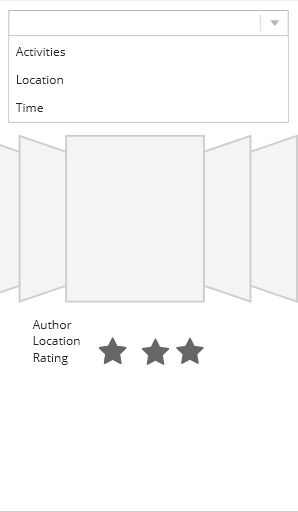
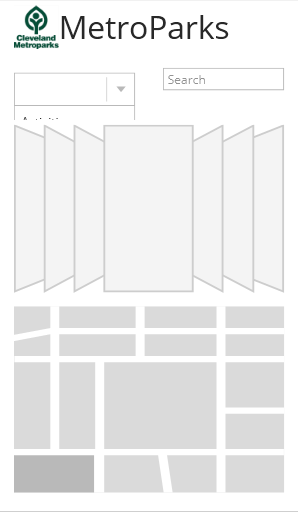
updated wireframe

diff --git a/Wireframe/index.html b/Wireframe/index.html
@@ -1,0 +1,79 @@
+<!DOCTYPE html>
+<!--[if lt IE 9]><html class="not-supported-browser"><![endif]-->
+<!--[if IE 9]><html class="ie9"> <![endif]-->
+<!--[if !IE]><!--><html><!--<![endif]-->
+    <head>
+        <base href='/' />
+        <script type='text/javascript'>
+            var loc = window.location.toString().replace(window.location.hash, '');
+            document.getElementsByTagName('base')[0].href = loc.substring(0, loc.lastIndexOf('/') + 1) + 'player/';
+        </script>
+        <meta http-equiv='x-ua-compatible' content='IE=edge' />
+
+        <meta charset="UTF-8"/>
+        <meta name="apple-mobile-web-app-capable" content="yes"/>
+        <meta name="apple-mobile-web-app-status-bar-style" content="black"/>
+        <meta name="viewport" content="user-scalable=no, initial-scale=1, maximum-scale=1, width=device-width, minimal-ui"/>
+        <meta name="viewport" content="user-scalable=no, initial-scale=1, maximum-scale=1, minimal-ui" media="(device-height: 568px)"/>
+        <meta name="google" content="notranslate" />
+        <link rel="apple-touch-icon-precomposed" href="css/images/apple-touch-indigo-icon.jpg"/>
+        <link rel="stylesheet" type="text/css" href="css/player.css" />
+        <script  type="text/javascript" src="lib/require.js"></script>
+    <script data-uri="../project.share" type="application/xml"><?Infragistics.Models format="xaml" version="2"?><SharedProject xmlns="http://prototypes.infragistics.com/shares/" Name="MetroParks" StartScreen="/Main_view.screen" Version="Dragon.Release_20180313.2 - 10.2.0.98" MajorVersion="10"><SharedProject.Options><ShareOptions ShowAnnotations="True" HighlightInteractions="True" Comments="Open" /></SharedProject.Options><SharedProject.Toc><Toc><Toc.Root><TocEntry Label="MetroParks" Type="project"><TocEntry.Target><TocEntryTarget Project="project.share" /></TocEntry.Target><TocEntry.Items><TocEntry Label="Detailed_view" Type="screen"><TocEntry.Target><TocEntryTarget Screen="/Detailed_view.screen" /></TocEntry.Target><TocEntry.Items><TocEntry Label="Start" Type="state"><TocEntry.Target><TocEntryTarget State="c1e1be22-d7db-a3a2-bd8b-ccaed67cc4da" /></TocEntry.Target></TocEntry></TocEntry.Items></TocEntry><TocEntry Label="Main_view" Type="screen"><TocEntry.Target><TocEntryTarget Screen="/Main_view.screen" /></TocEntry.Target><TocEntry.Items><TocEntry Label="Start" Type="state"><TocEntry.Target><TocEntryTarget State="83a5cef4-00ef-2dc4-ad4c-672c52f77148" /></TocEntry.Target></TocEntry></TocEntry.Items></TocEntry><TocEntry Label="list_view" Type="screen"><TocEntry.Target><TocEntryTarget Screen="/list_view.screen" /></TocEntry.Target><TocEntry.Items><TocEntry Label="Start" Type="state"><TocEntry.Target><TocEntryTarget State="c57a0507-d3cf-038f-1bcc-7d65c27299a9" /></TocEntry.Target></TocEntry></TocEntry.Items></TocEntry></TocEntry.Items></TocEntry></Toc.Root></Toc></SharedProject.Toc><SharedProject.Resources><SharedResource Reference="/assets/cleveland-metroparks.jpg" Type="Image" /><SharedResource Reference="/assets/IMG_3809.JPG" Type="Image" /><SharedResource Reference="/Main_view.screen" Type="Screen" /><SharedResource Reference="/list_view.screen" Type="Screen" /><SharedResource Reference="/Detailed_view.screen" Type="Screen" /></SharedProject.Resources></SharedProject></script>
+<script data-uri="../main_view.screen" type="application/xml"><?Infragistics.Models format="xaml" version="30"?><Page xmlns="http://prototypes.infragistics.com/" xmlns:d="http://prototypes.infragistics.com/views/design" Id="e8224399-262e-b45a-f6ff-853a40dbf5fb" d:Design.ShowGuides="False"><Page.Content><Content Width="320" Height="548" Id="19fb1bb3-303b-13e5-348b-323c23fa50fc"><Content.Layers><Layer Id="396adff5-d312-2a6c-c416-df8fb40a6899" Panel.Layout="Stretch" /><AnnotationsLayer Id="8628ed36-34be-5286-275b-d46cf00694cb" Panel.Layout="Stretch" /></Content.Layers><Content.Viewbox><Viewbox Size="320,548" Id="3af24aa3-b5f7-9bcf-cb51-67410accc408" /></Content.Viewbox><Content.GuidesInfo><GuidesInfo Id="d0d227f2-379e-4083-debf-d5b7f8e9fa49" /></Content.GuidesInfo></Content></Page.Content><Page.Device><DeviceInfo Id="Browser" Orientation="None" /></Page.Device><Page.Scenes><Scene Title="Start" Created="04/21/2018 20:28:41" Id="83a5cef4-00ef-2dc4-ad4c-672c52f77148"><Scene.KeyFrames><KeyFrame Duration="400" Id="f6fcc982-d7ec-238f-d9db-6f29d3dbcf1c"><KeyFrame.Operations><Add Property="Panel.Children" Target="396adff5-d312-2a6c-c416-df8fb40a6899"><Add.Item><BootstrapBox Id="ec0662dc-e8fe-f115-5e8d-81d7b05cf717" Panel.Layout="Stretch"><BootstrapBox.Content><BootstrapContainer Id="bf12ac65-30ba-ff50-6371-c0e47cd04ada"><BootstrapContainer.Children><Row Id="8ee2c908-e7c0-bb47-97fa-64b575e12d96" BootstrapContainer.IgnoreFormFactorVisibility="True"><Row.Children><Column Id="a8d0ac23-303c-7e44-6ff0-093d7408195b" BootstrapContainer.Margin="5" BootstrapContainer.SpanXs="12" BootstrapContainer.OffsetXs="0" Panel.Bounds="0,0,0*,47*"><Column.Children><Image SourcePath="assets/cleveland-metroparks.jpg" Id="f7237d9a-0215-1e78-47eb-0a09e081ff83" BootstrapContainer.SpanXs="2" Panel.Bounds="56,-8,5*{5,2147483647},5*{5,2147483647}" /><Title RichText="MetroParks" FontFamily="Open Sans" Id="15cbbb67-e5c4-87e8-98fc-5fbef2057557" BootstrapContainer.SpanXs="10" Panel.Bounds="-10,-23,5*{5,2147483647},5*{5,2147483647}" /></Column.Children></Column><Column Id="8856b95b-dc29-7d8c-0236-265488f84588" BootstrapContainer.Margin="5" BootstrapContainer.SpanXs="6" BootstrapContainer.OffsetXs="0" Panel.Bounds="0,0,0*,46*"><Column.Children><ComboBox IsOpen="True" Opacity="1" Id="0fa2043d-d67d-31de-42f4-f18578f76a79" BootstrapContainer.SpanXs="12" BootstrapContainer.OffsetXs="0" Panel.Bounds="168,8,290{5,2147483647},36{5,2147483647}"><ComboBox.Items><Item Text="Activities " Id="5b11e3dd-f842-7892-663c-66abda3c5494" /><Item Text="Location" Id="51d69141-bc26-acf5-c995-b7629c7f8782"><Item.Selected><CommandNavigate Screen="/Detailed_view.screen" Created="04/24/2018 00:30:32" Id="8406a8a5-a81d-b236-c182-b598153a07d2"><CommandNavigate.Transition><NavigateTransition Type="Crossfade" Duration="300" /></CommandNavigate.Transition></CommandNavigate></Item.Selected></Item><Item Text="Time" Id="ce0e9c37-51b2-6e1f-5564-3f66a65e0de7" /></ComboBox.Items></ComboBox></Column.Children></Column><Column Id="890733a8-9925-ffa0-3b3b-c282a5b7724d" BootstrapContainer.SpanXs="6" Panel.Bounds="0,0,0*,54"><Column.Children><TextBox WatermarkText="Search" FontFamily="Open Sans" Opacity="1" Id="7e9f730e-5823-3307-3275-b341de12a514" Panel.Bounds="208,82,120{5,2147483647},5*{5,2147483647}" /></Column.Children></Column><Column Id="350bf091-cf49-629b-4490-576cfca7d290" BootstrapContainer.SpanMd="6" BootstrapContainer.SpanSm="7" BootstrapContainer.SpanXs="12" BootstrapContainer.OffsetSm="0"><Column.Children><CoverFlowMock MockType="CoverFlow" Opacity="1" Id="904a6166-8b66-44e7-34f2-ef9f4f8cfab9" BootstrapContainer.SpanXs="12" Panel.Bounds="-50,169,450{5,2147483647},180{5,2147483647}"><CoverFlowMock.DoubleClick><CommandNavigate Screen="/Detailed_view.screen" Created="04/21/2018 20:37:23" Id="d22ecfc0-0c35-6ada-ef3e-465ded26a655"><CommandNavigate.Transition><NavigateTransition Type="Crossfade" Duration="300" /></CommandNavigate.Transition></CommandNavigate></CoverFlowMock.DoubleClick></CoverFlowMock></Column.Children></Column><Column Id="8c009604-14eb-a449-1302-99df8876b87a" BootstrapContainer.SpanMd="6" BootstrapContainer.SpanSm="5" BootstrapContainer.SpanXs="12" BootstrapContainer.OffsetMd="0" BootstrapContainer.OffsetSm="0" BootstrapContainer.VisibilitySm="Visible" BootstrapContainer.VisibilityXs="Hidden"><Column.Children><MapMock MockType="Street Map" Opacity="1" Id="09ed7357-8e97-cbe0-7ac7-8913eb3aa4af" Panel.Bounds="663,118,200{5,2147483647},200{5,2147483647}" /></Column.Children></Column></Row.Children></Row><Row Id="f5f45470-4caa-5910-0920-29d5b000e242" BootstrapContainer.IgnoreFormFactorVisibility="True"><Row.Children><Column Id="dc9acd2e-aa81-b536-c1bc-3d80d009f5df" BootstrapContainer.SpanXs="4" Panel.Bounds="0,0,0*,32"><Column.Children><Label RichText="Author&#xD;&#xA;" FontFamily="Open Sans" Opacity="1" Id="e478850b-a104-d30c-4d8f-4c6c1a487665" Panel.Bounds="30,345,5*{5,2147483647},5*{5,2147483647}" /></Column.Children></Column><Column Id="afcb970b-6886-4092-b22a-092ce00f734b" BootstrapContainer.SpanMd="5" BootstrapContainer.SpanSm="4" BootstrapContainer.SpanXs="12" BootstrapContainer.OffsetMd="3" BootstrapContainer.OffsetSm="8"><Column.Children><Label RichText="Location" FontFamily="Open Sans" Id="b752cdd8-8298-8d6b-890a-ad294be83549" Panel.Bounds="15,13,5*{5,2147483647},5*{5,2147483647}" /></Column.Children></Column><Column Id="f67f073a-be49-82ea-beca-5a9740cbb4c2" BootstrapContainer.SpanMd="7" BootstrapContainer.SpanXs="12" BootstrapContainer.VisibilityMd="Visible" BootstrapContainer.VisibilitySm="Visible" BootstrapContainer.VisibilityXs="Hidden"><Column.Children><Label RichText="Best time to go see" Align="Left" FontFamily="Open Sans" Id="d59ae9d0-5a32-1d5d-ece7-35d7ca751e0b" Panel.Bounds="485,33,5*{5,2147483647},5*{5,2147483647}" /></Column.Children></Column><Column Id="cbf54f79-ae1f-8449-7aff-9cf15cb44f63" BootstrapContainer.SpanMd="6" BootstrapContainer.SpanSm="5" BootstrapContainer.SpanXs="12" BootstrapContainer.OffsetMd="0"><Column.Children><Label RichText="&lt;Run FontSize=&quot;16&quot; &gt;Rating&lt;/Run&gt;" FontFamily="Open Sans" Id="03685ad9-b8ac-d005-7a92-a168dd83ce2d" BootstrapContainer.SpanXs="2" Panel.Bounds="33,43,5*{5,2147483647},5*{5,2147483647}" /><Icon Color="#FF194C17" CatalogId="fa-star" Opacity="1" Id="bc7b288a-9754-bf51-7a03-399d8077cc5e" BootstrapContainer.HorizontalAlignment="Center" BootstrapContainer.SpanXs="2" Panel.Bounds="71,0,23{5,2147483647},23{5,2147483647}" /><Icon Color="#FF194C17" CatalogId="fa-star" Opacity="1" Id="fd0a0e12-737a-e987-7c20-3f2a3ffd4ae0" BootstrapContainer.HorizontalAlignment="Center" BootstrapContainer.SpanXs="2" Panel.Bounds="76,0,23{5,2147483647},23{5,2147483647}" /><Icon Color="#FF194C17" CatalogId="fa-star" Opacity="1" Id="b876f518-cd18-a4fb-5a69-d1b11bf94314" BootstrapContainer.HorizontalAlignment="Center" BootstrapContainer.SpanXs="2" Panel.Bounds="76,0,23{5,2147483647},23{5,2147483647}" /></Column.Children></Column><Column Id="ccf8299b-5e89-f579-eb7c-2f9369e02fb8" BootstrapContainer.SpanXs="12" BootstrapContainer.IgnoreFormFactorVisibility="True" /></Row.Children></Row></BootstrapContainer.Children></BootstrapContainer></BootstrapBox.Content></BootstrapBox></Add.Item></Add><Set Property="Content.AutoHeight" Value="True" Target="19fb1bb3-303b-13e5-348b-323c23fa50fc" /></KeyFrame.Operations></KeyFrame></Scene.KeyFrames></Scene></Page.Scenes></Page></script>
+<script data-uri="../list_view.screen" type="application/xml"><?Infragistics.Models format="xaml" version="30"?><Page xmlns="http://prototypes.infragistics.com/" xmlns:d="http://prototypes.infragistics.com/views/design" Id="f7086c82-f02d-f6d9-7ff9-16a4913bdb92" d:Design.ShowGuides="False"><Page.Content><Content Width="320" Height="548" Id="6c526a1e-96dc-e958-3678-231874c97fd8"><Content.Layers><Layer Id="8658e622-8953-7ba1-cf87-0045a6faa11c" Panel.Layout="Stretch" /><AnnotationsLayer Id="2963e4b0-27cd-f024-beca-549f280d4c3a" Panel.Layout="Stretch" /></Content.Layers><Content.Viewbox><Viewbox Size="320,548" Id="7c7aad60-994b-87ee-0f64-94ef56f45af1" /></Content.Viewbox><Content.GuidesInfo><GuidesInfo Id="169816f9-61da-e6d7-78da-66f209d8c6d1" /></Content.GuidesInfo></Content></Page.Content><Page.Device><DeviceInfo Id="Browser" Orientation="None" /></Page.Device><Page.Scenes><Scene Title="Start" Created="04/21/2018 20:33:29" Id="c57a0507-d3cf-038f-1bcc-7d65c27299a9"><Scene.KeyFrames><KeyFrame Id="766fef26-ba3b-15cb-9620-efe0b3bc10ee"><KeyFrame.Operations><Add Property="Panel.Children" Target="8658e622-8953-7ba1-cf87-0045a6faa11c"><Add.Item><BootstrapBox Id="5ee427aa-1287-1970-2a50-81b091882ea1" Panel.Layout="Stretch"><BootstrapBox.Content><BootstrapContainer Id="1bbade0a-6b59-fa56-bde9-33b6f86099db"><BootstrapContainer.Children><Row Id="da4b03ca-8e3d-b54b-e61d-211fceb672fc"><Row.Children><Column Id="63e477dc-57b5-4666-2dc7-751e91408ff0" BootstrapContainer.SpanXs="12"><Column.Children><Title RichText="Activies" FontFamily="Open Sans" Opacity="1" Id="4376dfc0-ac37-895c-3b1a-0bddd266e043" Panel.Bounds="81,21,5*{5,2147483647},5*{5,2147483647}" /></Column.Children></Column><Column Id="6eff81b7-0e99-0272-0aef-a373343bcab8" BootstrapContainer.SpanXs="4"><Column.Children><Image SourcePath="assets/IMG_3809.JPG" Opacity="1" Id="72cca76d-a5f3-5e72-084b-752164d6daef" BootstrapContainer.SpanXs="12" Panel.Bounds="13,67,5*{5,2147483647},5*{5,2147483647}" /></Column.Children></Column><Column Id="b94851ba-51d4-ce13-73fc-5d3a0a499787" BootstrapContainer.SpanXs="4"><Column.Children><TextArea Text="Place sunset&#xA;Author&#xA;Rating" FontFamily="Open Sans" Opacity="1" Id="9424265e-adc6-9ea1-33fa-2590a3623269" Panel.Bounds="87,72,180{5,2147483647},78{5,2147483647}" /></Column.Children></Column><Column Id="2f197366-b28f-7941-ba8e-43a96cb2ae28" BootstrapContainer.SpanXs="2" Panel.Bounds="0,0,0*,82*"><Column.Children><Icon Color="#FF194C17" CatalogId="fa-star" Opacity="1" Id="50301845-1526-446f-4eb9-8a4721e1edea" BootstrapContainer.Margin="0,40,0,0" BootstrapContainer.HorizontalAlignment="Left" BootstrapContainer.OffsetXs="0" Panel.Bounds="15,30,16{5,2147483647},16{5,2147483647}" /></Column.Children></Column><Column Id="5466eb36-ee43-582d-003f-72a9f2a671f9" BootstrapContainer.Margin="0,40,0,0" BootstrapContainer.SpanXs="2" Panel.Bounds="0,0,0*,63"><Column.Children><Icon Color="#FF194C17" CatalogId="fa-star" Opacity="1" Id="8fdecce1-e73c-3adc-0f59-337fab593053" BootstrapContainer.Margin="0" BootstrapContainer.HorizontalAlignment="Left" BootstrapContainer.OffsetXs="0" Panel.Bounds="288,69,16{5,2147483647},16{5,2147483647}" /></Column.Children></Column></Row.Children></Row><Row Id="cc5f3266-0efb-0898-ff7e-87312d381abc"><Row.Children><Column Id="3dc02165-6ed0-3428-8922-164e5a9fec37" BootstrapContainer.SpanXs="4"><Column.Children><Image SourcePath="assets/IMG_3809.JPG" Opacity="1" Id="7d4469a5-018b-0c3f-092a-80e29ae79464" BootstrapContainer.SpanXs="12" Panel.Bounds="13,67,5*{5,2147483647},5*{5,2147483647}" /></Column.Children></Column><Column Id="82cf8a30-dfb3-0fb8-8dde-f1b5628d8d0a" BootstrapContainer.SpanXs="4"><Column.Children><TextArea Text="sunset&#xA;tess adam&#xA;Rating" FontFamily="Open Sans" Opacity="1" Id="3f64e64c-5a73-e5ad-193d-dec79074d1fc" Panel.Bounds="87,72,180{5,2147483647},78{5,2147483647}" /></Column.Children></Column><Column Id="e9ef5466-4f38-1bbc-6c30-ae51c91cc154" BootstrapContainer.SpanXs="2" Panel.Bounds="0,0,0*,82*"><Column.Children><Icon Color="#FF194C17" CatalogId="fa-star" Opacity="1" Id="1f500ffa-0942-a0ff-461b-7f91dd125121" BootstrapContainer.Margin="0,40,0,0" BootstrapContainer.HorizontalAlignment="Left" BootstrapContainer.OffsetXs="0" Panel.Bounds="15,30,16{5,2147483647},16{5,2147483647}" /></Column.Children></Column><Column Id="65a53c70-882d-b9e8-821b-921e73235192" BootstrapContainer.Margin="0,40,0,0" BootstrapContainer.SpanXs="2" Panel.Bounds="0,0,0*,63"><Column.Children><Icon Color="#FF194C17" CatalogId="fa-star" Opacity="1" Id="74731448-8acb-7bba-9fbe-67725c85117d" BootstrapContainer.Margin="0" BootstrapContainer.HorizontalAlignment="Left" BootstrapContainer.OffsetXs="0" Panel.Bounds="288,69,16{5,2147483647},16{5,2147483647}" /></Column.Children></Column></Row.Children></Row><Row Id="9bc4ea29-7b57-ce9d-8b42-9ffb9acc5822"><Row.Children><Column Id="d4f0b73d-16da-d170-bd45-65ddb1ed457e" BootstrapContainer.SpanXs="4"><Column.Children><Image SourcePath="assets/IMG_3809.JPG" Opacity="1" Id="d6f57ab5-7a22-a6f4-8c7f-e1194370ea69" BootstrapContainer.SpanXs="12" Panel.Bounds="13,67,5*{5,2147483647},5*{5,2147483647}" /></Column.Children></Column><Column Id="79928d28-cc31-6b1a-4047-6f32e0f47f67" BootstrapContainer.SpanXs="4"><Column.Children><TextArea Text="water fall&#xA;dan miller&#xA;Rating" FontFamily="Open Sans" Opacity="1" Id="33759418-34d8-d1ac-1d3e-dfe3d314f7a0" Panel.Bounds="87,72,180{5,2147483647},78{5,2147483647}" /></Column.Children></Column><Column Id="5884179d-5723-4f41-45f9-bb80701abca5" BootstrapContainer.SpanXs="2" Panel.Bounds="0,0,0*,82*"><Column.Children><Icon Color="#FF194C17" CatalogId="fa-star" Opacity="1" Id="9e122084-c635-eef9-d1c7-9eb6761360ee" BootstrapContainer.Margin="0,40,0,0" BootstrapContainer.HorizontalAlignment="Left" BootstrapContainer.OffsetXs="0" Panel.Bounds="15,30,16{5,2147483647},16{5,2147483647}" /></Column.Children></Column><Column Id="eb5465cb-2807-9366-abc5-bcbb1df1de46" BootstrapContainer.Margin="0,40,0,0" BootstrapContainer.SpanXs="2" Panel.Bounds="0,0,0*,63"><Column.Children><Icon Color="#FF194C17" CatalogId="fa-star" Opacity="1" Id="e032e7a2-f5c9-a712-90ef-fb48a904beee" BootstrapContainer.Margin="0" BootstrapContainer.HorizontalAlignment="Left" BootstrapContainer.OffsetXs="0" Panel.Bounds="288,69,16{5,2147483647},16{5,2147483647}" /></Column.Children></Column></Row.Children></Row><Row Id="58f9b304-ad7c-f43c-2c98-fdde38625fab"><Row.Children><Column Id="e3af2b0f-4995-841c-67b0-a5ffd32e527a" BootstrapContainer.SpanXs="4"><Column.Children><Image SourcePath="assets/IMG_3809.JPG" Opacity="1" Id="a0bef7ba-5974-a3f7-380b-cb8d282f99f5" BootstrapContainer.SpanXs="12" Panel.Bounds="13,67,5*{5,2147483647},5*{5,2147483647}" /></Column.Children></Column><Column Id="7921c5e5-e775-f8dd-cfbe-7d650f32ca3e" BootstrapContainer.SpanXs="4"><Column.Children><TextArea Text="the zoo&#xA;mary gill&#xA;Rating" FontFamily="Open Sans" Opacity="1" Id="45332e3c-6071-592b-8b39-277edaf8a348" Panel.Bounds="87,72,180{5,2147483647},78{5,2147483647}" /></Column.Children></Column><Column Id="0228db6e-a058-be9e-ede5-ab8b106dea15" BootstrapContainer.SpanXs="2" Panel.Bounds="0,0,0*,82*"><Column.Children><Icon Color="#FF194C17" CatalogId="fa-star" Opacity="1" Id="8feed9a5-23bf-1863-877f-babe858d196c" BootstrapContainer.Margin="0,40,0,0" BootstrapContainer.HorizontalAlignment="Left" BootstrapContainer.OffsetXs="0" Panel.Bounds="15,30,16{5,2147483647},16{5,2147483647}" /></Column.Children></Column><Column Id="16be5052-7b0b-c80f-8f1a-f4386cf18794" BootstrapContainer.Margin="0,40,0,0" BootstrapContainer.SpanXs="2" Panel.Bounds="0,0,0*,63"><Column.Children><Icon Color="#FF194C17" CatalogId="fa-star" Opacity="1" Id="a291175d-8dd4-f0d8-34de-8007ea8a4886" BootstrapContainer.Margin="0" BootstrapContainer.HorizontalAlignment="Left" BootstrapContainer.OffsetXs="0" Panel.Bounds="288,69,16{5,2147483647},16{5,2147483647}" /></Column.Children></Column></Row.Children></Row></BootstrapContainer.Children></BootstrapContainer></BootstrapBox.Content></BootstrapBox></Add.Item></Add><Set Property="Content.AutoHeight" Value="True" Target="6c526a1e-96dc-e958-3678-231874c97fd8" /></KeyFrame.Operations></KeyFrame></Scene.KeyFrames></Scene></Page.Scenes></Page></script>
+<script data-uri="../detailed_view.screen" type="application/xml"><?Infragistics.Models format="xaml" version="30"?><Page xmlns="http://prototypes.infragistics.com/" xmlns:d="http://prototypes.infragistics.com/views/design" Id="53730a42-f715-27de-d94b-2ade45f7ea0e" d:Design.ShowGuides="False"><Page.Content><Content Width="413" Height="2418" Id="59632f1e-8263-758f-dd7a-7a44203aeea9"><Content.Layers><Layer Id="709760a3-55b9-f340-58c9-6dafb71a2158" Panel.Layout="Stretch" /><AnnotationsLayer Id="3f0110e6-5ea4-e163-4237-fede7d4213b7" Panel.Layout="Stretch" /></Content.Layers><Content.Viewbox><Viewbox Size="413,548" Id="0c40fea2-e6bb-d8e3-b2b4-8074ec24e78e" /></Content.Viewbox><Content.GuidesInfo><GuidesInfo Id="f2169a3d-fee0-1b78-9341-439d4d8a4561" /></Content.GuidesInfo></Content></Page.Content><Page.Device><DeviceInfo Id="Browser" Orientation="None" /></Page.Device><Page.Scenes><Scene Title="Start" Created="04/21/2018 20:10:36" Id="c1e1be22-d7db-a3a2-bd8b-ccaed67cc4da"><Scene.KeyFrames><KeyFrame Id="18bd5c73-96d6-28ca-b79c-6dabfb0c3407"><KeyFrame.Operations><Add Property="Panel.Children" Target="709760a3-55b9-f340-58c9-6dafb71a2158"><Add.Item><BootstrapBox Id="6e698aae-2ed9-b471-9c9d-512002b2619d" Panel.Layout="Stretch"><BootstrapBox.Content><BootstrapContainer Id="8fd1fbbb-acd4-df83-e65c-4735a657c178"><BootstrapContainer.Children><Row Id="2425f19c-9988-fc4e-d12d-9c6651711a2c"><Row.Children><Column Id="88c2e453-aed1-c334-f400-6dbe9308aa2d" BootstrapContainer.SpanXs="12" /><Column Id="ba77d931-89b8-3bd0-a7c1-eb899f5e1349" BootstrapContainer.SpanXs="12" /><Column Id="29de0ef0-c078-786b-c707-0ae90ae4b57b" BootstrapContainer.SpanXs="12" /><Column Id="eb8cad96-36e9-1fdb-abc8-4ea8a649b21f" BootstrapContainer.SpanXs="12" /><Column Id="3bd1f5f2-e643-3797-354c-e535146bd79a" BootstrapContainer.SpanXs="12" /><Column Id="d3bea181-b707-bac4-8c6b-a5ccabe18ed6" BootstrapContainer.SpanXs="12" /><Column Id="8f82e8e9-b1d7-108f-c843-e33451a1b2d1" BootstrapContainer.SpanXs="12" Panel.Bounds="0,0,0*,48" /></Row.Children></Row></BootstrapContainer.Children></BootstrapContainer></BootstrapBox.Content></BootstrapBox></Add.Item></Add><Add Property="Panel.Children" Target="709760a3-55b9-f340-58c9-6dafb71a2158"><Add.Item><Image SourcePath="assets/IMG_3809.JPG" Id="75ec188b-c53e-b285-da71-ca6ada8c611a" Panel.Bounds="2,-2,147{5,2147483647},195{5,2147483647}" /></Add.Item></Add><Add Property="Panel.Children" Target="709760a3-55b9-f340-58c9-6dafb71a2158"><Add.Item><Label RichText="Author &#xD;&#xA;time to go see :6pm-12am&#xD;&#xA;best time to see: may-june" FontFamily="Open Sans" Id="095063bc-b705-1e8a-359b-9a88d87e901d" Panel.Bounds="153,124,5*{5,2147483647},5*{5,2147483647}" /></Add.Item></Add><Add Property="Panel.Children" Target="709760a3-55b9-f340-58c9-6dafb71a2158"><Add.Item><Title RichText="Sunset" FontFamily="Open Sans" Id="3d35972e-fdc4-014f-135e-cb7c0546426c" Panel.Bounds="161,12,5*{5,2147483647},5*{5,2147483647}" /></Add.Item></Add><Add Property="Panel.Children" Target="709760a3-55b9-f340-58c9-6dafb71a2158"><Add.Item><MapMock MockType="Street Map" Id="b34da93c-2d6c-6143-4a3b-9cb3eb244bcb" Panel.Bounds="0,196,405{5,2147483647},247{5,2147483647}" /></Add.Item></Add><Add Property="Panel.Children" Target="709760a3-55b9-f340-58c9-6dafb71a2158"><Add.Item><Label RichText="Rating" FontFamily="Open Sans" Id="df180ea6-cb46-c9c9-968e-70566f9f4b7b" Panel.Bounds="10,461,5*{5,2147483647},5*{5,2147483647}" /></Add.Item></Add><Add Property="Panel.Children" Target="709760a3-55b9-f340-58c9-6dafb71a2158"><Add.Item><Icon CatalogId="fa-star" Id="905f6748-51d8-0f8c-1c9f-34ee2181a05e" BootstrapContainer.HorizontalAlignment="Center" Panel.Bounds="52,454,32{5,2147483647},32{5,2147483647}" /></Add.Item></Add><Add Property="Panel.Children" Target="709760a3-55b9-f340-58c9-6dafb71a2158"><Add.Item><Icon CatalogId="fa-star" Id="294c021b-7646-e3d8-acad-bd1d4deb77f1" BootstrapContainer.HorizontalAlignment="Center" Panel.Bounds="52,454,32{5,2147483647},32{5,2147483647}" /></Add.Item></Add><Add Property="Panel.Children" Target="709760a3-55b9-f340-58c9-6dafb71a2158"><Add.Item><Icon CatalogId="fa-star" Id="ed39e5b5-35ca-2577-1e3a-0dda462a93a4" BootstrapContainer.HorizontalAlignment="Center" Panel.Bounds="52,454,32{5,2147483647},32{5,2147483647}" /></Add.Item></Add><Add Property="Panel.Children" Target="709760a3-55b9-f340-58c9-6dafb71a2158"><Add.Item><Icon CatalogId="fa-star" Id="f331ce8b-4e7f-4226-c3d4-0e3d69cfa3d4" BootstrapContainer.HorizontalAlignment="Center" Panel.Bounds="52,454,32{5,2147483647},32{5,2147483647}" /></Add.Item></Add><Add Property="Panel.Children" Target="709760a3-55b9-f340-58c9-6dafb71a2158"><Add.Item><Icon CatalogId="fa-star" Id="cca10974-4384-9943-729e-e83e24eba324" BootstrapContainer.HorizontalAlignment="Center" Panel.Bounds="127,454,32{5,2147483647},32{5,2147483647}" /></Add.Item></Add><Add Property="Panel.Children" Target="709760a3-55b9-f340-58c9-6dafb71a2158"><Add.Item><Icon CatalogId="fa-star" Id="cc5fca9a-dbaa-daa0-4bc2-07fd3bc13695" BootstrapContainer.HorizontalAlignment="Center" Panel.Bounds="89,454,32{5,2147483647},32{5,2147483647}" /></Add.Item></Add><Set Property="Content.AutoHeight" Value="True" Target="59632f1e-8263-758f-dd7a-7a44203aeea9" /></KeyFrame.Operations></KeyFrame></Scene.KeyFrames></Scene></Page.Scenes></Page></script>
+
+        <script type='text/javascript'>
+            function load() {
+                require.config({ baseUrl: 'js/', waitSeconds: 60 });
+                require(['require', 'player_lib'], function (require) {
+                    require(['config'], function (config) {
+                        config.EnableInitialScreen = false;
+                        config.EnableAssetsDownload = false;
+                        config.IsExport = true;
+
+                        config.ShowNotes = true;
+                        config.ShowHighlight = true;
+                        config.EnableExportPrototype = false;                                
+                        config.Locale = 'en';
+                            
+                        config.initialize();
+                        require(['shell', 'devices', 'utils', 'css!../css/player_lib'], function (shell, devices, utils) {
+                            config.ProjectPath = '../project.share';
+                            config.BuildScreenUri = function(screen, project) { return '../index.html#f=' + utils.path.stripExtension(screen); };
+                            new shell.PlayerShell().run();                                    
+                         });
+                     });
+                 });
+             }
+        </script>
+</head>
+    <body onload="load()">
+        <div id="toolbar_toggle" style="display:none">
+            <div></div>
+        </div>
+        <div id="toolbar_layer" style="display:none">
+            <div id="toolbar_toggle_mobile">
+                <div></div>
+            </div>
+            <div id="toolbar_content">                
+            </div>
+        </div>
+        <div id="content_layer" class="ui-helper-loading">
+            <div id="prototype"></div>
+            <div class="ruler"></div>
+            <div id="host_popup_layer"></div>
+            <div id="prototype_loading">                
+                <div class="loading_indicator"></div>
+            </div>
+        </div>
+        <div id="shell_layer">            
+        </div>
+
+        <div class="not-supported-browser-message" style="display:none">
+            <p><strong>Oops!</strong><span> Looks like your browser is not supported, please update to IE9+. </span></p>
+            <p>If you are using a IE9+ browser, maybe it's in compatibility mode? See here how to <a href="http://windows.microsoft.com/en-us/internet-explorer/use-compatibility-view" target="_blank">disable compatibility mode</a> and reload.</p>
+        </div>
+    </body>
+</html>
